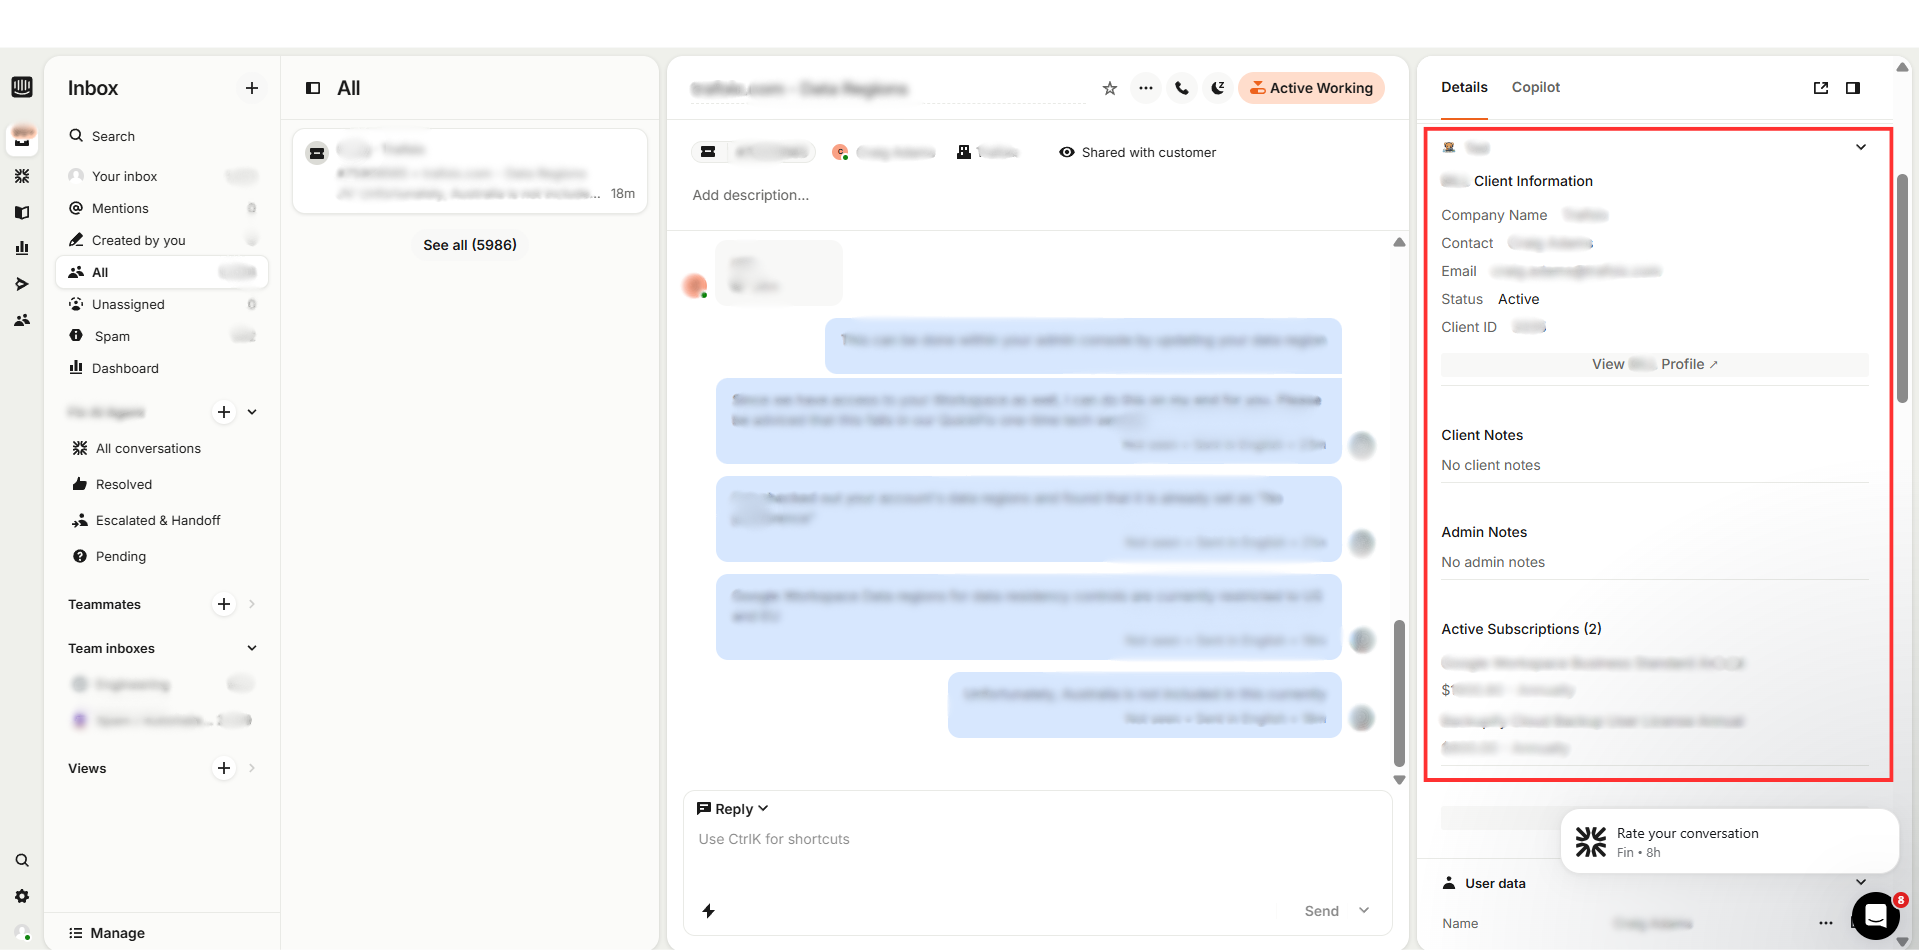
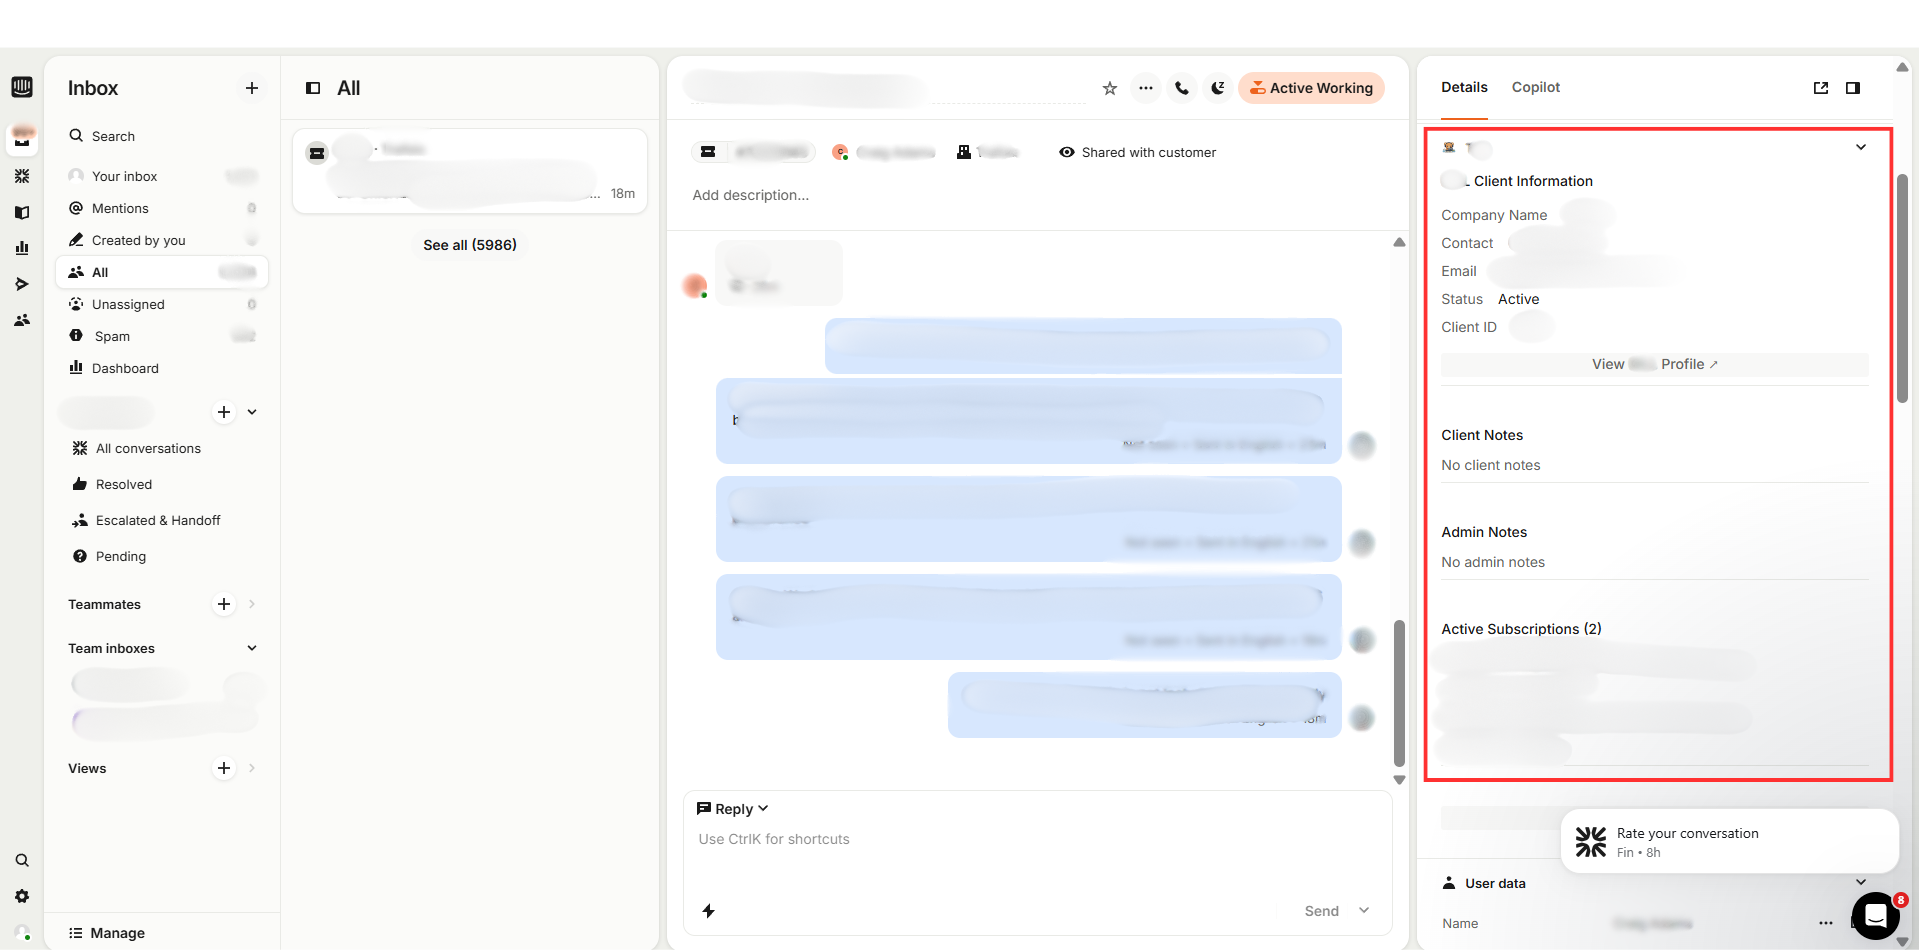
Add domain attribute screenshot, update sidebar blur
- Wire domain-attribute.png to card #4 (Intercom Domain Attribute Service)
- Replace intercom-sidebar.png with heavier blur for privacy

diff --git a/index.html b/index.html
@@ -842,6 +842,9 @@
 
             <!-- 4. Domain Attribute — alternate to integration -->
             <article class="project-card" data-category="integration">
+                <div class="project-image">
+                    <img src="images/domain-attribute.png" alt="Intercom user data panel showing the auto-populated Domain attribute field">
+                </div>
                 <div class="project-body">
                     <span class="category-label">Integration</span>
                     <h3>Intercom Domain Attribute Service</h3>
